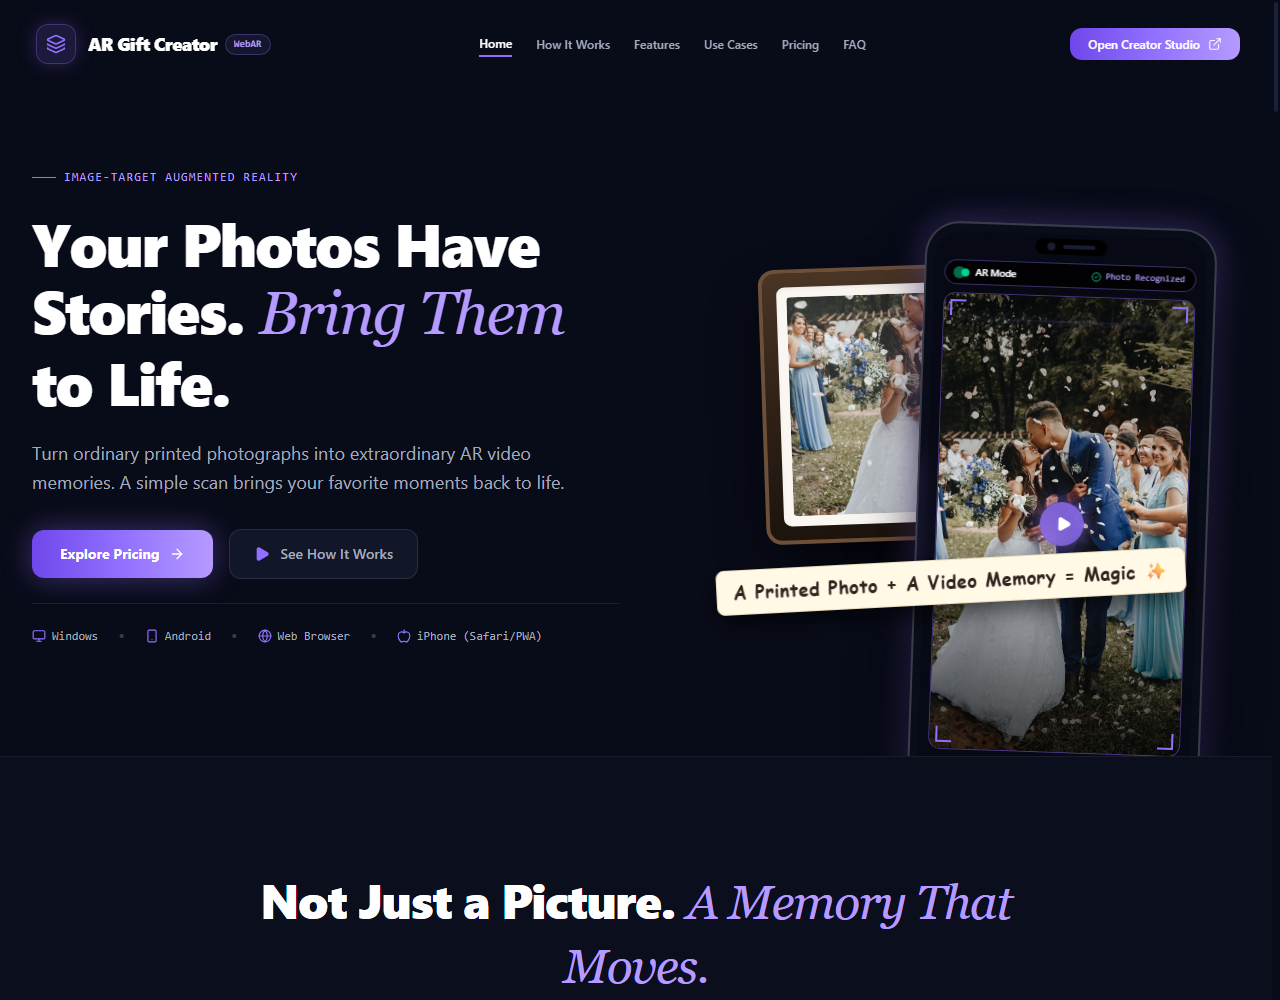
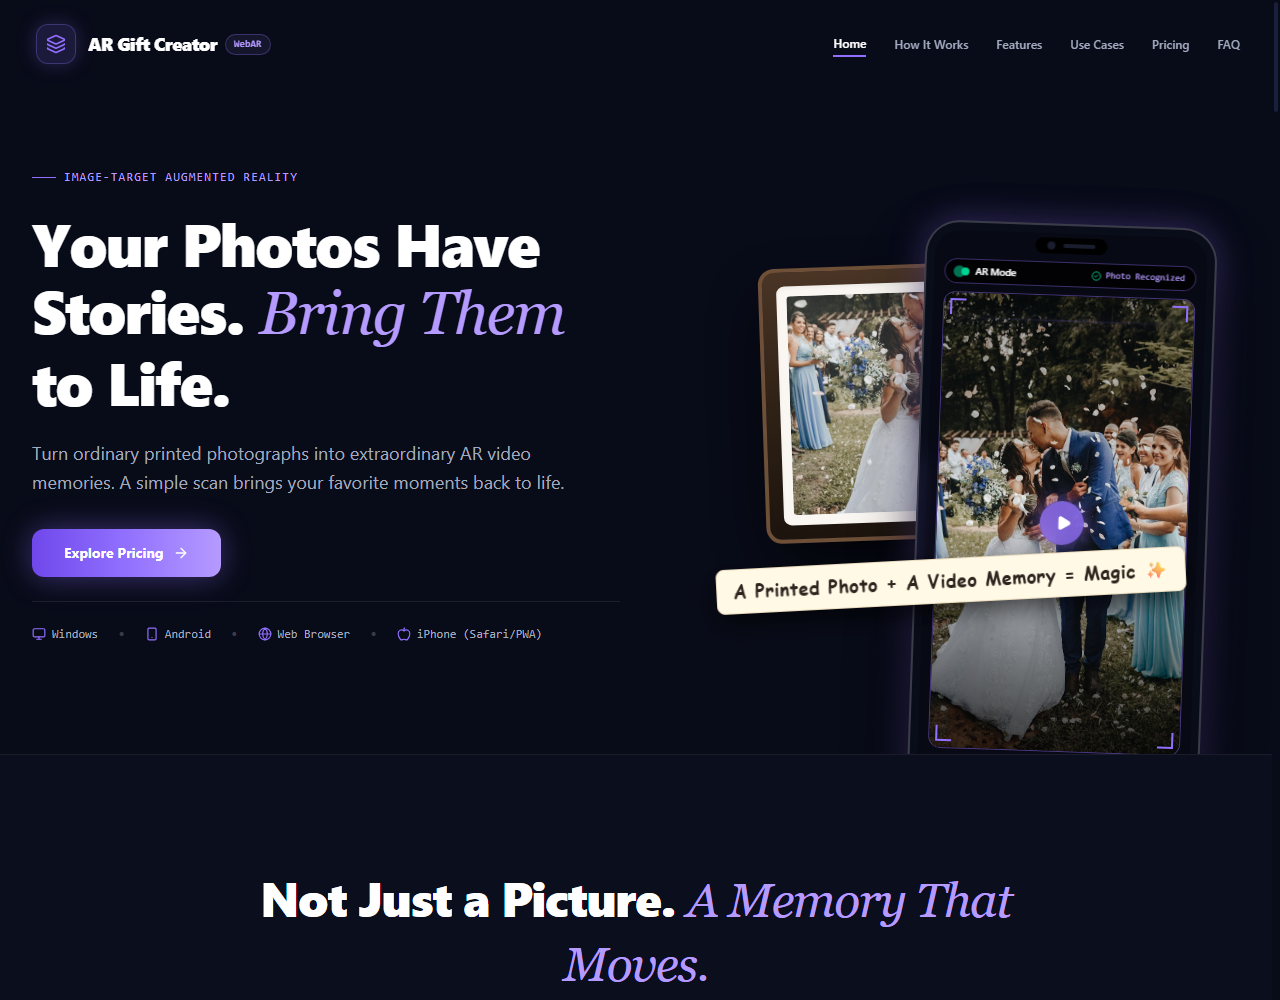
Remove Open Creator Studio, See How It Works, and Start Creating buttons

diff --git a/src/components/Navbar.jsx b/src/components/Navbar.jsx
@@ -1,6 +1,5 @@
 import React, { useState, useEffect } from 'react';
-import { Layers, Menu, X, ExternalLink, ArrowRight } from 'lucide-react';
-import { siteConfig } from '../config/siteConfig';
+import { Layers, Menu, X, ArrowRight } from 'lucide-react';
 
 export default function Navbar({ onOpenLegal, onOpenContact }) {
   const [isScrolled, setIsScrolled] = useState(false);
@@ -93,10 +92,10 @@ export default function Navbar({ onOpenLegal, onOpenContact }) {
             </div>
           </a>
 
-          {/* Desktop Navigation Links (Clean, minimal, no huge pill) */}
+          {/* Desktop Navigation Links */}
           <nav
             aria-label="Primary Navigation"
-            className="hidden lg:flex items-center gap-6"
+            className="hidden lg:flex items-center gap-7"
           >
             {navLinks.map((link) => {
               const isActive = activeSection === link.id;
@@ -117,30 +116,8 @@ export default function Navbar({ onOpenLegal, onOpenContact }) {
             })}
           </nav>
 
-          {/* Right Action: Open Creator Studio */}
-          <div className="hidden sm:flex items-center gap-3">
-            <a
-              href={siteConfig.urls.creatorStudio}
-              target="_blank"
-              rel="noopener noreferrer"
-              className="btn-press inline-flex items-center gap-2 px-4.5 py-2 rounded-xl text-xs font-semibold text-white bg-gradient-to-r from-[#7047EB] via-[#9270FF] to-[#B59AFF] hover:shadow-[0_0_25px_rgba(146,112,255,0.45)] transition-all duration-300 transform hover:-translate-y-0.5 focus-visible:ring-2 focus-visible:ring-[#9270FF] focus-visible:outline-none"
-            >
-              <span>Open Creator Studio</span>
-              <ExternalLink className="w-3.5 h-3.5 text-white/90" />
-            </a>
-          </div>
-
-          {/* Mobile Actions */}
-          <div className="flex items-center gap-2 lg:hidden">
-            <a
-              href={siteConfig.urls.creatorStudio}
-              target="_blank"
-              rel="noopener noreferrer"
-              className="sm:hidden px-3 py-1.5 rounded-lg text-xs font-semibold text-white bg-[#9270FF] text-[11px] btn-press"
-            >
-              Studio ↗
-            </a>
-
+          {/* Mobile Hamburger Toggle */}
+          <div className="flex items-center lg:hidden">
             <button
               onClick={() => setMobileMenuOpen(!mobileMenuOpen)}
               className="w-11 h-11 flex items-center justify-center rounded-xl bg-[#14172B] border border-white/10 text-[#A3AABF] hover:text-white hover:border-[#9270FF]/40 transition-colors focus-visible:ring-2 focus-visible:ring-[#9270FF] focus-visible:outline-none"
@@ -170,18 +147,8 @@ export default function Navbar({ onOpenLegal, onOpenContact }) {
             ))}
           </nav>
 
-          <div className="pt-6 mt-4 border-t border-white/10 space-y-3">
-            <a
-              href={siteConfig.urls.creatorStudio}
-              target="_blank"
-              rel="noopener noreferrer"
-              className="w-full flex items-center justify-center gap-2 py-3.5 px-4 rounded-xl text-sm font-semibold text-white bg-gradient-to-r from-[#7047EB] to-[#9270FF] shadow-lg shadow-[#9270FF]/25"
-            >
-              <span>Open Creator Studio</span>
-              <ExternalLink className="w-4 h-4" />
-            </a>
-
-            <div className="flex items-center justify-center gap-6 pt-2 text-xs text-[#646C86]">
+          <div className="pt-6 mt-4 border-t border-white/10">
+            <div className="flex items-center justify-center gap-6 text-xs text-[#646C86]">
               <button
                 onClick={() => {
                   setMobileMenuOpen(false);

diff --git a/src/components/Hero.jsx b/src/components/Hero.jsx
@@ -1,7 +1,6 @@
 import React from 'react';
 import {
   ArrowRight,
-  Play,
   Sparkles,
   Smartphone,
   Monitor,
@@ -9,10 +8,11 @@ import {
   Apple,
   CheckCircle2,
   Volume2,
-  Maximize2
+  Maximize2,
+  Play
 } from 'lucide-react';
 
-export default function Hero({ onExplorePricing, onSeeHowItWorks }) {
+export default function Hero({ onExplorePricing }) {
   return (
     <section id="home" className="relative pt-32 pb-20 md:pt-40 md:pb-28 overflow-hidden">
       {/* Background radial violet atmospheric glows */}
@@ -45,22 +45,14 @@ export default function Hero({ onExplorePricing, onSeeHowItWorks }) {
               Turn ordinary printed photographs into extraordinary AR video memories. A simple scan brings your favorite moments back to life.
             </p>
 
-            {/* Action Buttons */}
+            {/* Action Button: Explore Pricing */}
             <div className="flex flex-col sm:flex-row items-center justify-center lg:justify-start gap-4 pt-2">
               <button
                 onClick={onExplorePricing}
-                className="btn-press w-full sm:w-auto inline-flex items-center justify-center gap-2.5 px-7 py-3.5 rounded-xl text-sm font-bold text-white bg-gradient-to-r from-[#7047EB] via-[#9270FF] to-[#B59AFF] shadow-[0_0_30px_rgba(146,112,255,0.4)] hover:shadow-[0_0_40px_rgba(146,112,255,0.6)] transition-all duration-300 transform hover:-translate-y-0.5 cursor-pointer focus-visible:ring-2 focus-visible:ring-[#9270FF] focus-visible:outline-none"
+                className="btn-press w-full sm:w-auto inline-flex items-center justify-center gap-2.5 px-8 py-3.5 rounded-xl text-sm font-bold text-white bg-gradient-to-r from-[#7047EB] via-[#9270FF] to-[#B59AFF] shadow-[0_0_30px_rgba(146,112,255,0.4)] hover:shadow-[0_0_40px_rgba(146,112,255,0.6)] transition-all duration-300 transform hover:-translate-y-0.5 cursor-pointer focus-visible:ring-2 focus-visible:ring-[#9270FF] focus-visible:outline-none"
               >
                 <span>Explore Pricing</span>
                 <ArrowRight className="w-4 h-4" />
-              </button>
-
-              <button
-                onClick={onSeeHowItWorks}
-                className="btn-press w-full sm:w-auto inline-flex items-center justify-center gap-2.5 px-6 py-3.5 rounded-xl text-sm font-semibold text-[#A3AABF] hover:text-white bg-[#14172B]/90 hover:bg-[#1A1F38] border border-white/10 hover:border-[#9270FF]/30 transition-all duration-200 cursor-pointer focus-visible:ring-2 focus-visible:ring-[#9270FF] focus-visible:outline-none"
-              >
-                <Play className="w-4 h-4 text-[#9270FF] fill-[#9270FF]" />
-                <span>See How It Works</span>
               </button>
             </div>
 

diff --git a/src/components/FinalCTA.jsx b/src/components/FinalCTA.jsx
@@ -1,8 +1,7 @@
 import React from 'react';
-import { ArrowRight, ExternalLink } from 'lucide-react';
-import { siteConfig } from '../config/siteConfig';
+import { ArrowRight } from 'lucide-react';
 
-export default function FinalCTA({ onExplorePlans, onStartCreating }) {
+export default function FinalCTA({ onExplorePlans }) {
   return (
     <section className="py-20 md:py-32 relative overflow-hidden">
       {/* Background radial violet glow */}
@@ -63,16 +62,6 @@ export default function FinalCTA({ onExplorePlans, onStartCreating }) {
                   <span>Explore Pricing</span>
                   <ArrowRight className="w-4 h-4" />
                 </button>
-
-                <a
-                  href={siteConfig.urls.creatorStudio}
-                  target="_blank"
-                  rel="noopener noreferrer"
-                  className="btn-press w-full sm:w-auto inline-flex items-center justify-center gap-2 px-7 py-3.5 rounded-xl text-sm font-semibold text-white bg-[#19203D] hover:bg-[#222B52] border border-white/10 hover:border-[#9270FF]/40 transition-all cursor-pointer focus-visible:ring-2 focus-visible:ring-[#9270FF] focus-visible:outline-none"
-                >
-                  <span>Start Creating</span>
-                  <ExternalLink className="w-4 h-4 text-[#9270FF]" />
-                </a>
               </div>
             </div>
 

diff --git a/src/pages/Home.jsx b/src/pages/Home.jsx
@@ -38,7 +38,6 @@ export default function Home() {
         {/* 2. Hero Section */}
         <Hero
           onExplorePricing={() => scrollToSection('pricing')}
-          onSeeHowItWorks={() => scrollToSection('how-it-works')}
         />
 
         {/* 3. Product Demonstration */}
@@ -65,7 +64,6 @@ export default function Home() {
         {/* 11. Emotional Final CTA */}
         <FinalCTA
           onExplorePlans={() => scrollToSection('pricing')}
-          onStartCreating={() => scrollToSection('pricing')}
         />
       </main>
 
